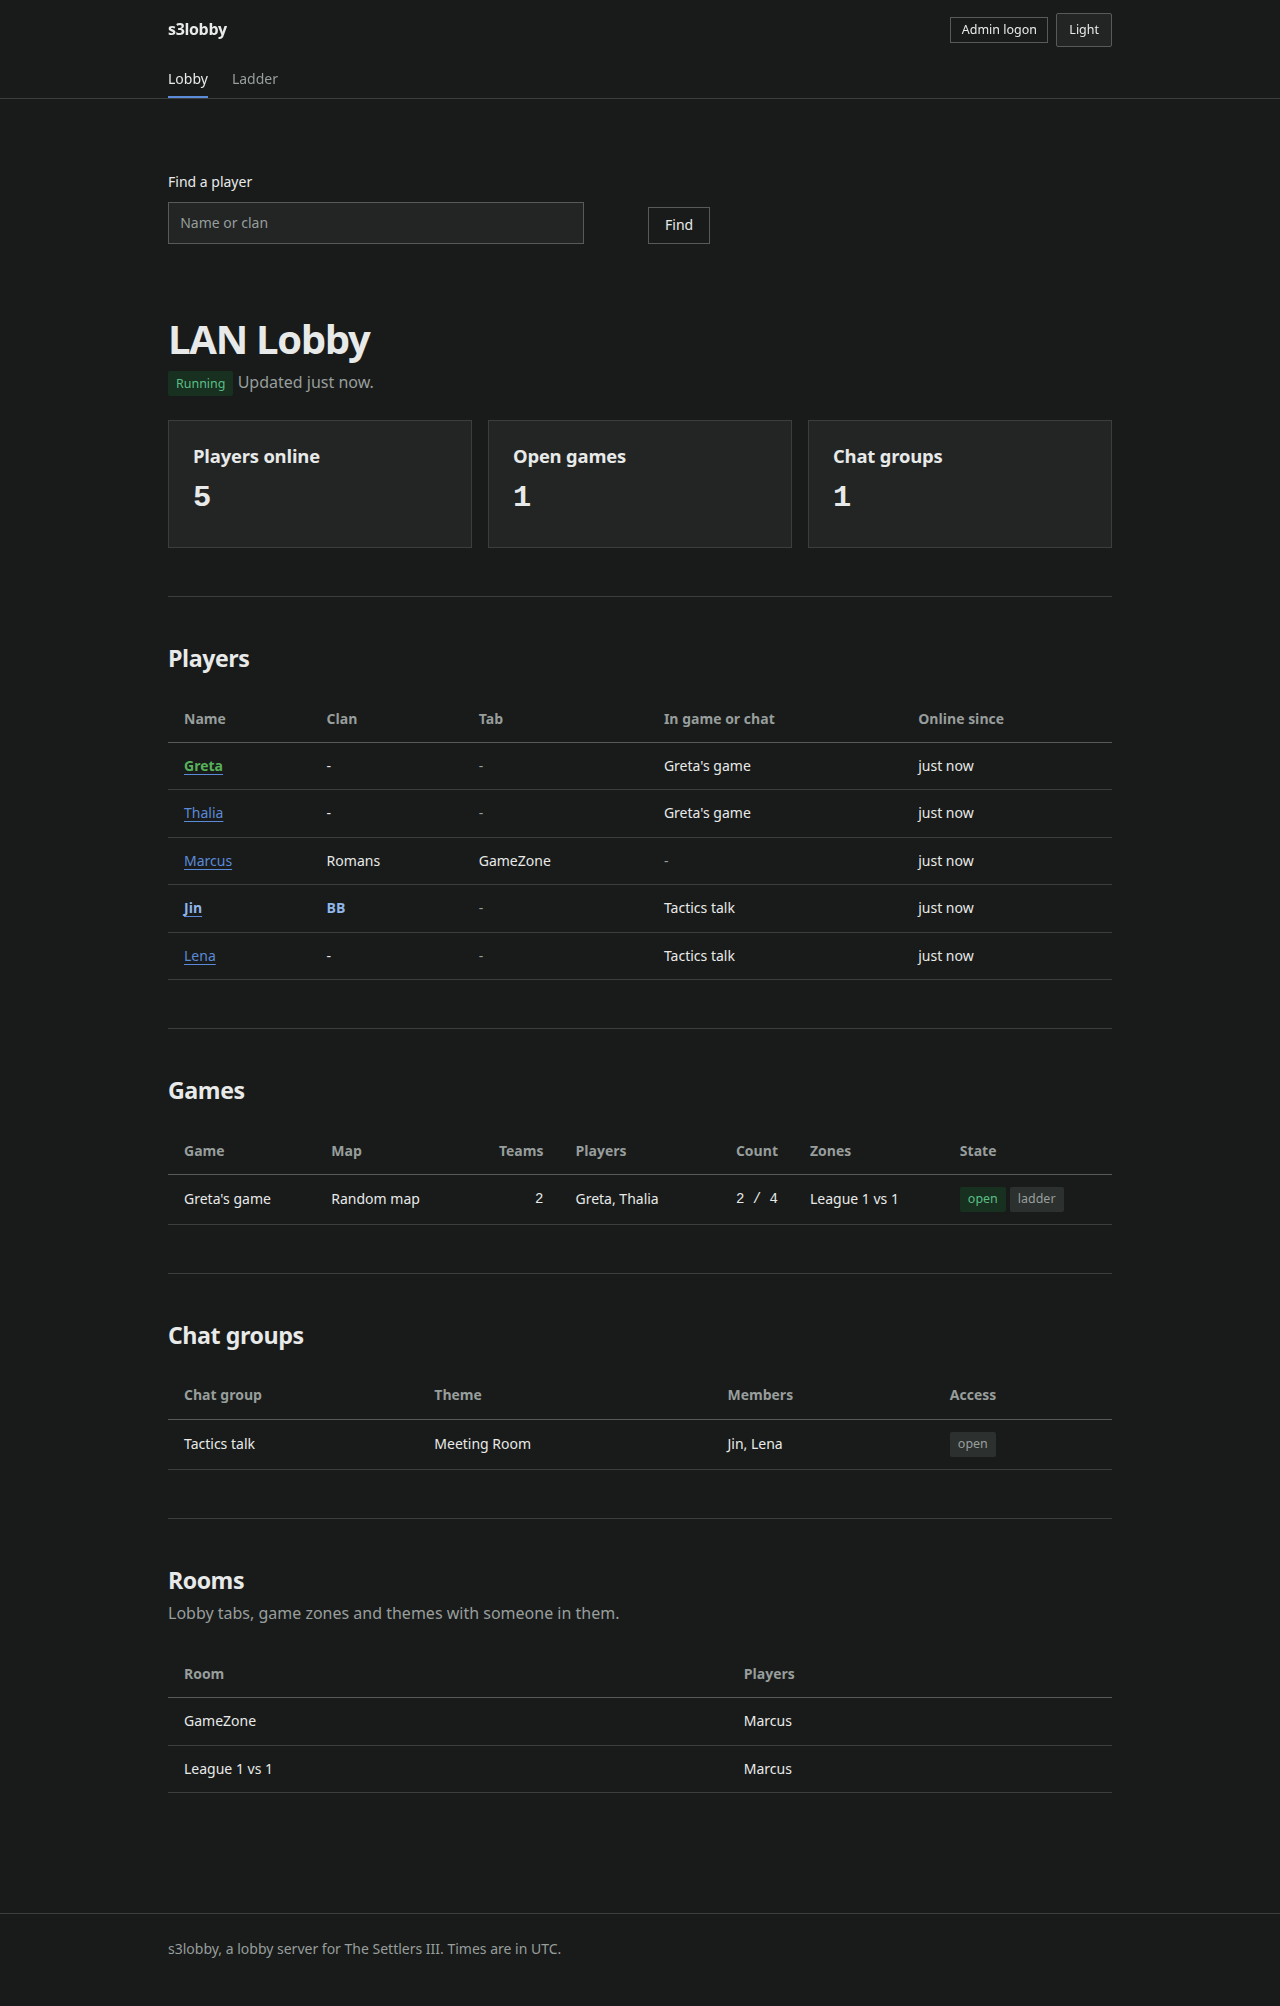
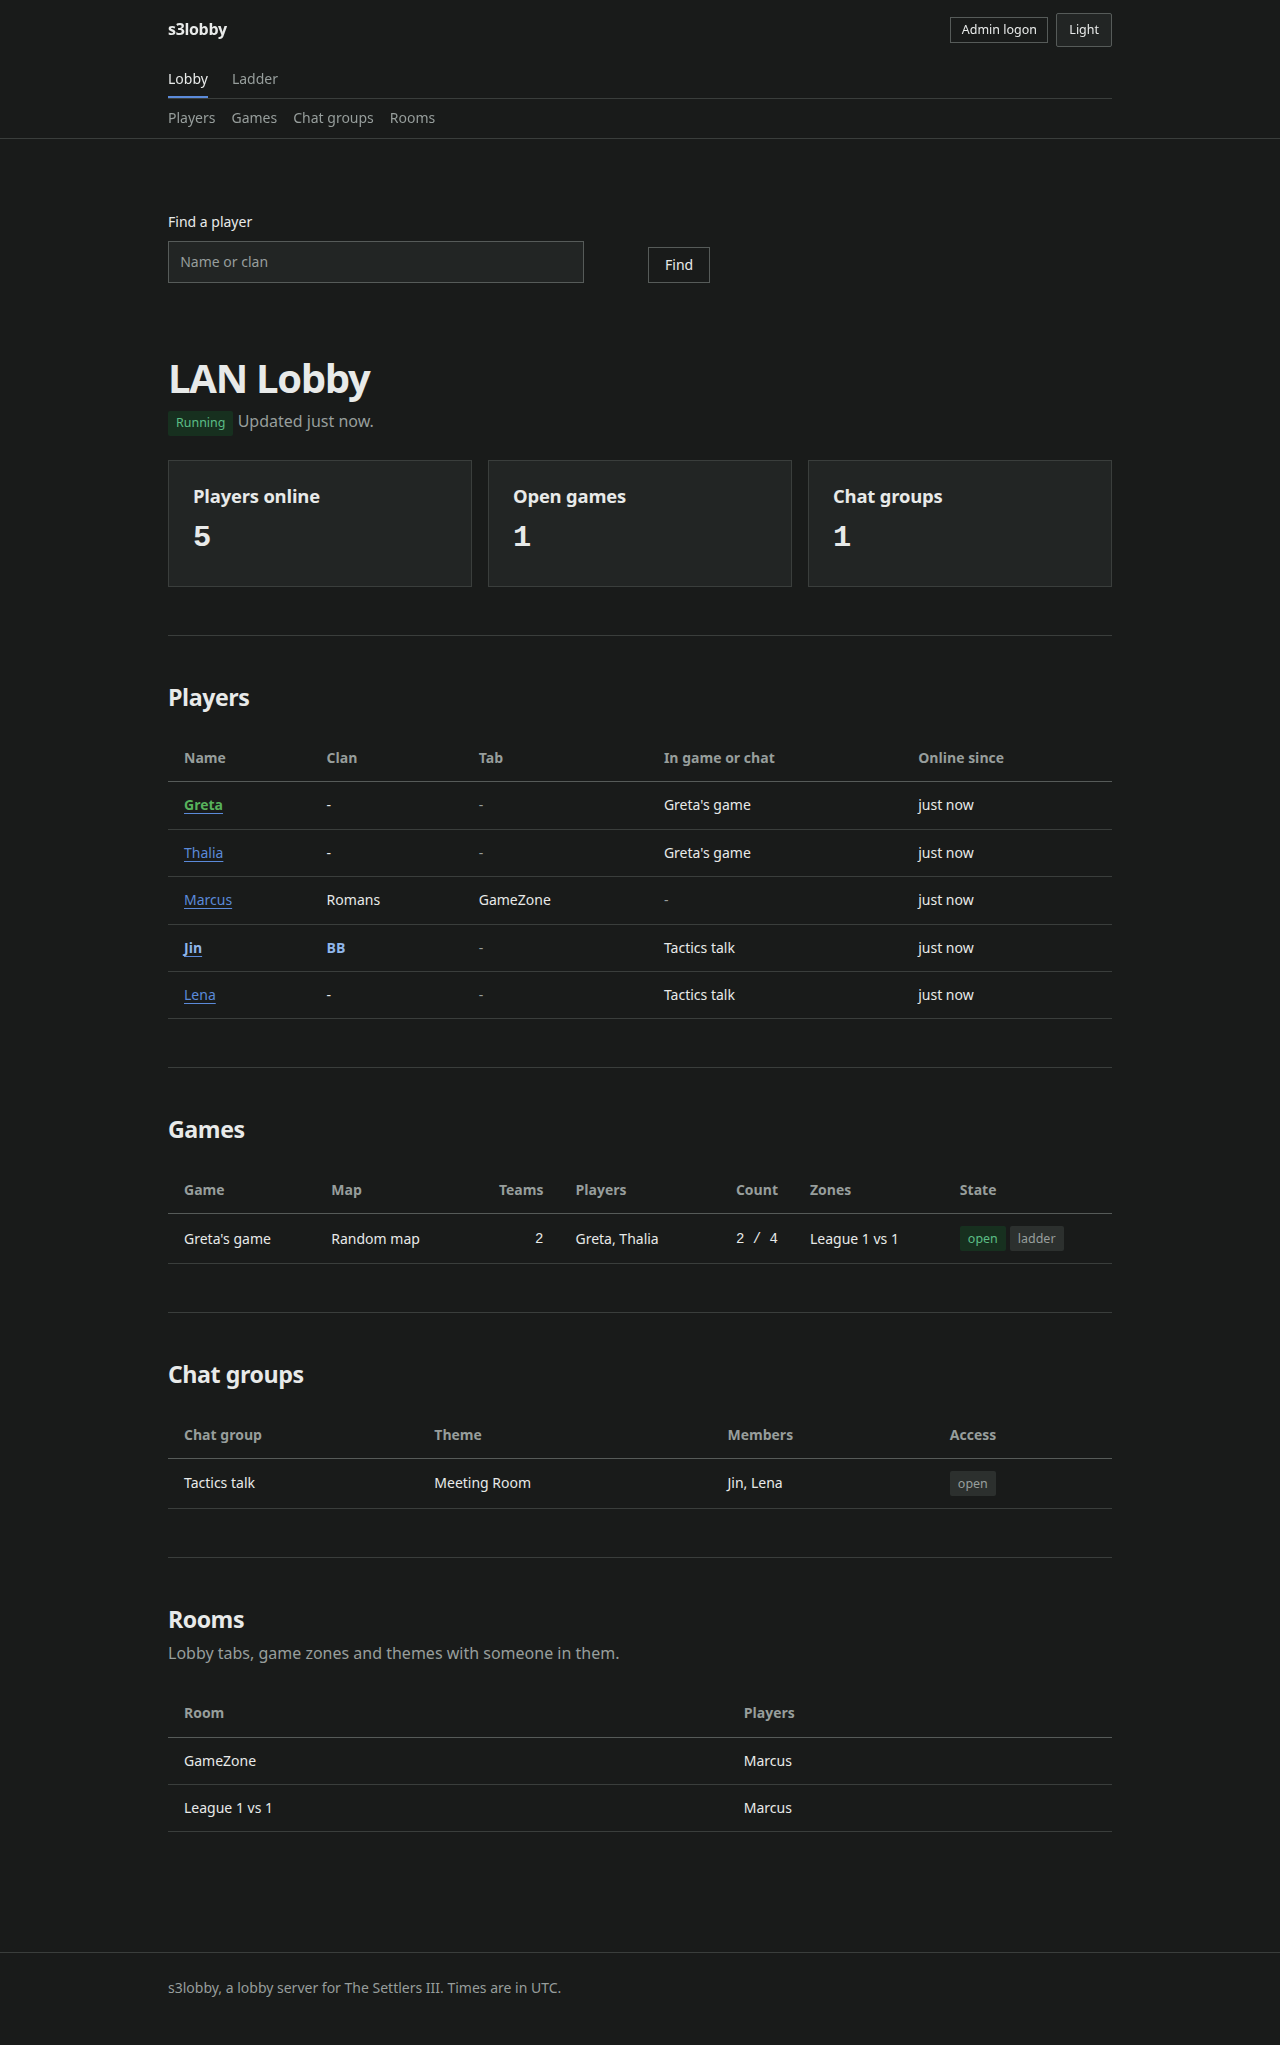
docs: retake the screenshots and require it before every release
The owner wants the docs and the README's pictures current whenever
main moves. CLAUDE.md now asks for both before every release and every
merge into main, with the new screenshot script; the pictures are
retaken with the section links and the single header line.

diff --git a/CLAUDE.md b/CLAUDE.md
@@ -170,6 +170,12 @@ it rejected; find the handler for its message types in S3.EXE (dispatch table in
 - Git flow: `main` holds releases only, `develop` the work in progress. Every change goes on a
   branch from `develop` (`feature/...`, `fix/...`, `docs/...`, `refactor/...`) and is merged back
   with `git merge --no-ff BRANCH -m "Merge branch 'BRANCH' into develop"`.
+- Before every release and every merge into `main` (owner's rule, 2026-10-24): bring the docs up
+  to date with the code (README, SECURITY.md, CLAUDE.md, docs/ladder.md, docs/protocol.md, the
+  changelog; an audit of the changes since the last release finds what is outdated) and retake the
+  README screenshots with `.venv/bin/python scripts/readme_screenshots.py`, which fills a demo
+  lobby, renders every pictured page in light and dark, crops the pictures and copies them into
+  `docs/images`. A page the README does not picture yet but should goes into its list.
 - Releases follow SemVer: minor for features or anything that changes behaviour, patch for fixes
   only. **Never release 1.0.0 (or any 1.x) until the owner explicitly says so**, whatever is
   finished or tested; until then every release stays 0.x. A release is a
@@ -220,7 +226,8 @@ it rejected; find the handler for its message types in S3.EXE (dispatch table in
 - Checking web pages by eye: render them with headless Chrome (`google-chrome --headless=new
   --window-size=1280,900 --screenshot=FILE file://PAGE.html`) from HTML fetched with Flask's test
   client, `/static/` rewritten to file paths; check light and dark (`data-theme` on `<html>`) and
-  375 px wide. The README screenshots come from a demo database, never the owner's data.
+  375 px wide. The README screenshots come from a demo database, never the owner's data
+  (`scripts/readme_screenshots.py`).
 
 ## Open review findings
 
